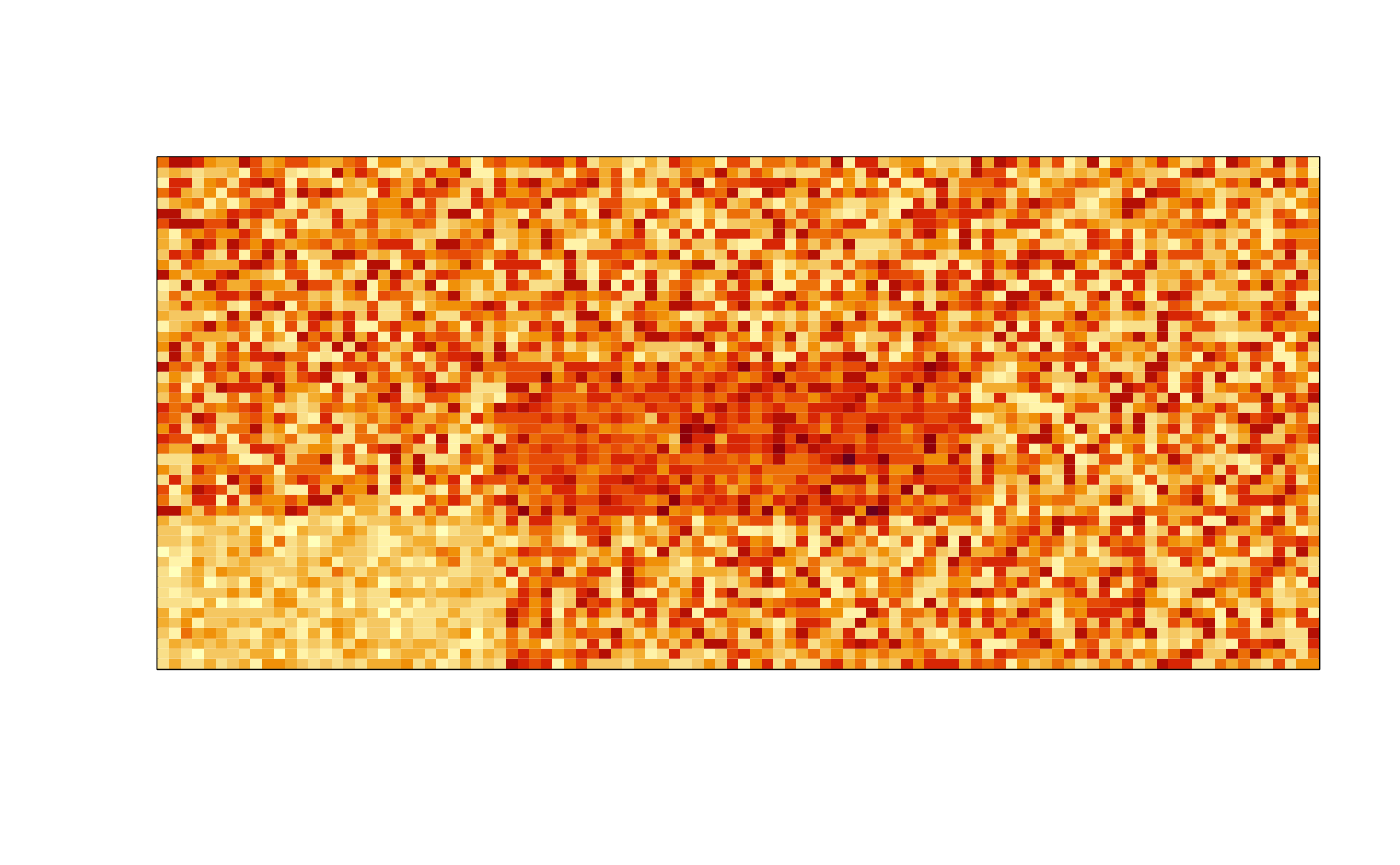
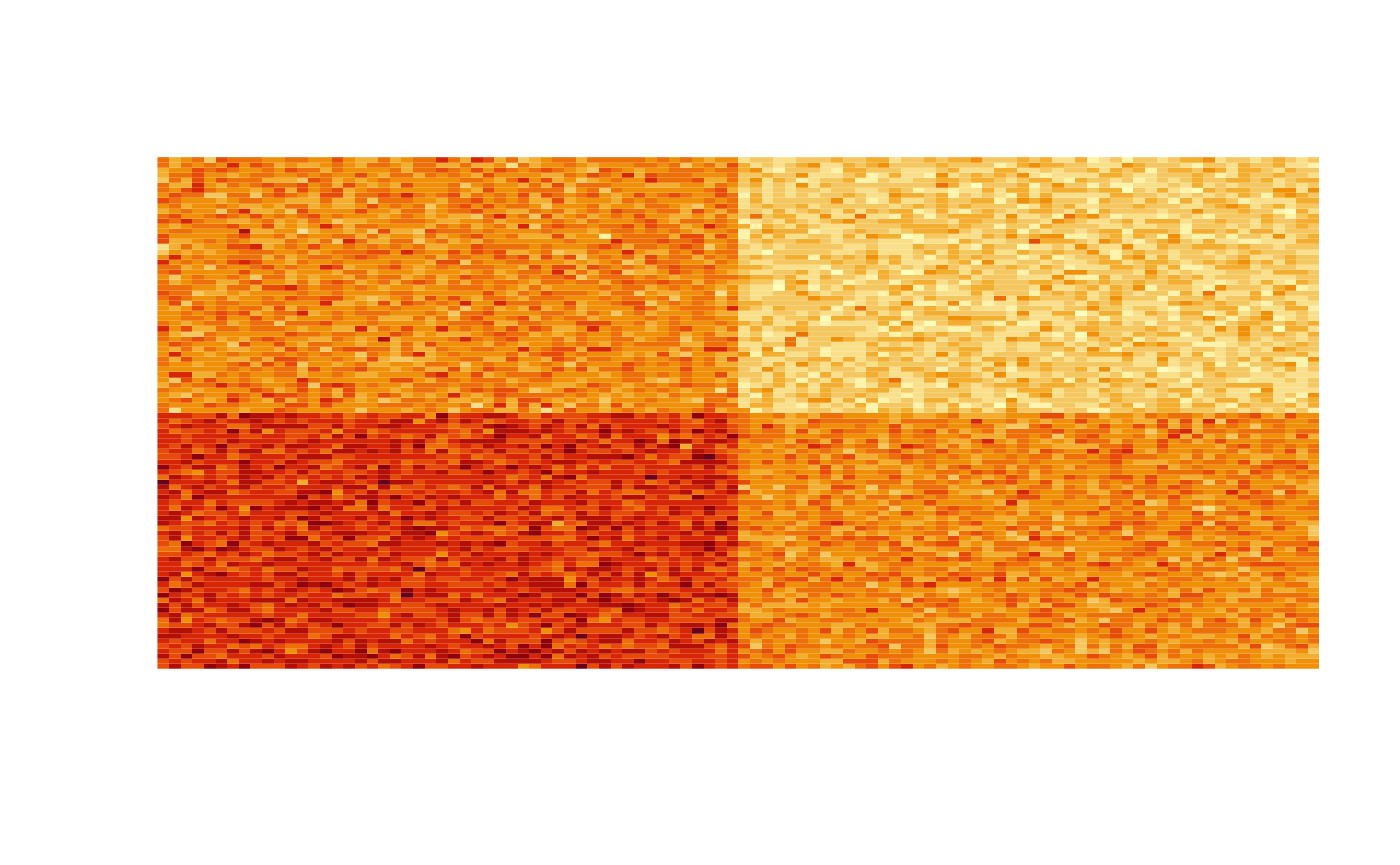
Built site for biaa: 0.0.0.900@f6a7e57

diff --git a/articles/biaa.html b/articles/biaa.html
@@ -99,47 +99,49 @@
 <div id="toy-example" class="section level2">
 <h2 class="hasAnchor">
 <a href="#toy-example" class="anchor"></a>Toy example</h2>
-<div id="parameters" class="section level3">
-<h3 class="hasAnchor">
-<a href="#parameters" class="anchor"></a>Parameters</h3>
-<div class="sourceCode" id="cb1"><html><body><pre class="r"><span class="fu"><a href="https://rdrr.io/r/base/Random.html">set.seed</a></span>(<span class="fl">123</span>)
+<div class="sourceCode" id="cb1"><html><body><pre class="r"><span class="fu"><a href="https://rdrr.io/r/base/Random.html">set.seed</a></span>(<span class="fl">2020</span>)
 
-<span class="no">m</span> <span class="kw">=</span> <span class="fl">50</span>
-<span class="no">n</span> <span class="kw">=</span> <span class="fl">100</span>
-<span class="no">k</span> <span class="kw">=</span> <span class="fl">1</span>:<span class="fl">5</span>
-<span class="no">c</span> <span class="kw">=</span> <span class="fl">1</span>:<span class="fl">4</span></pre></body></html></div>
+<span class="no">n</span> <span class="kw">&lt;-</span> <span class="fl">100</span>
+<span class="no">m</span> <span class="kw">&lt;-</span> <span class="fl">100</span>
+
+<span class="no">rotate</span> <span class="kw">&lt;-</span> <span class="kw">function</span>(<span class="no">x</span>) <span class="fu"><a href="https://rdrr.io/r/base/t.html">t</a></span>(<span class="fu"><a href="https://rdrr.io/r/base/apply.html">apply</a></span>(<span class="no">x</span>, <span class="fl">2</span>, <span class="no">rev</span>))</pre></body></html></div>
 </div>
-<div id="data" class="section level3">
-<h3 class="hasAnchor">
-<a href="#data" class="anchor"></a>Data</h3>
-<div class="sourceCode" id="cb2"><html><body><pre class="r"><span class="no">ax</span> <span class="kw">=</span> <span class="fl">1</span>:<span class="fl">30</span>; <span class="no">ay</span> <span class="kw">=</span> <span class="fl">1</span>:<span class="fl">15</span>
-<span class="no">bx</span> <span class="kw">=</span> <span class="fl">31</span>:<span class="fl">70</span>; <span class="no">by</span> <span class="kw">=</span> <span class="fl">16</span>:<span class="fl">30</span>
+<div id="toy-data" class="section level2">
+<h2 class="hasAnchor">
+<a href="#toy-data" class="anchor"></a>Toy data</h2>
+<div class="sourceCode" id="cb2"><html><body><pre class="r"><span class="no">ax</span> <span class="kw">&lt;-</span> <span class="fl">1</span>:(<span class="no">n</span>/<span class="fl">2</span>); <span class="no">ay</span> <span class="kw">&lt;-</span> (<span class="no">m</span>/<span class="fl">2</span>+<span class="fl">1</span>):<span class="no">m</span>;
+<span class="no">bx</span> <span class="kw">&lt;-</span> (<span class="no">n</span>/<span class="fl">2</span>+<span class="fl">1</span>):<span class="no">n</span>; <span class="no">by</span> <span class="kw">&lt;-</span> <span class="fl">1</span>:(<span class="no">m</span>/<span class="fl">2</span>);
 
-<span class="no">data</span> <span class="kw">=</span> <span class="fu"><a href="https://rdrr.io/r/base/matrix.html">matrix</a></span>(<span class="fu"><a href="https://rdrr.io/r/stats/Uniform.html">runif</a></span>(<span class="no">n</span> * <span class="no">m</span>, -<span class="fl">1</span>, <span class="fl">1</span>), <span class="kw">nrow</span> <span class="kw">=</span> <span class="no">n</span>, <span class="kw">ncol</span> <span class="kw">=</span> <span class="no">m</span>)
-<span class="no">data</span>[<span class="no">ax</span>, <span class="no">ay</span>] <span class="kw">=</span> <span class="fu"><a href="https://rdrr.io/r/stats/Normal.html">rnorm</a></span>(<span class="fu"><a href="https://rdrr.io/r/base/length.html">length</a></span>(<span class="no">ax</span>) * <span class="fu"><a href="https://rdrr.io/r/base/length.html">length</a></span>(<span class="no">ay</span>), <span class="kw">mean</span> <span class="kw">=</span> -<span class="fl">0.5</span>, <span class="kw">sd</span> <span class="kw">=</span> <span class="fl">0.3</span>)
-<span class="no">data</span>[<span class="no">bx</span>, <span class="no">by</span>] <span class="kw">=</span> <span class="fu"><a href="https://rdrr.io/r/stats/Normal.html">rnorm</a></span>(<span class="fu"><a href="https://rdrr.io/r/base/length.html">length</a></span>(<span class="no">bx</span>) * <span class="fu"><a href="https://rdrr.io/r/base/length.html">length</a></span>(<span class="no">by</span>), <span class="kw">mean</span> <span class="kw">=</span> <span class="fl">0.5</span>, <span class="kw">sd</span> <span class="kw">=</span> <span class="fl">0.3</span>)
+<span class="no">data</span> <span class="kw">&lt;-</span> <span class="fu"><a href="https://rdrr.io/r/base/array.html">array</a></span>(<span class="fl">0.5</span>, <span class="kw">dim</span> <span class="kw">=</span> <span class="fu"><a href="https://rdrr.io/r/base/c.html">c</a></span>(<span class="no">n</span>, <span class="no">m</span>))
+<span class="no">data</span>[<span class="no">ax</span>, <span class="no">ay</span>] <span class="kw">=</span> <span class="fl">0</span>
+<span class="no">data</span>[<span class="no">bx</span>, <span class="no">by</span>] <span class="kw">=</span> <span class="fl">1</span>
 
-<span class="fu"><a href="https://rdrr.io/r/graphics/image.html">image</a></span>(<span class="no">data</span>, <span class="kw">xaxt</span><span class="kw">=</span> <span class="st">"n"</span>, <span class="kw">yaxt</span><span class="kw">=</span> <span class="st">"n"</span>)</pre></body></html></div>
+<span class="no">data</span> <span class="kw">&lt;-</span> <span class="no">data</span> + <span class="fu"><a href="https://rdrr.io/r/base/array.html">array</a></span>(<span class="fu"><a href="https://rdrr.io/r/stats/Normal.html">rnorm</a></span>(<span class="no">n</span> * <span class="no">m</span>, <span class="fl">0</span>, <span class="fl">0.2</span>), <span class="kw">dim</span> <span class="kw">=</span> <span class="fu"><a href="https://rdrr.io/r/base/c.html">c</a></span>(<span class="no">n</span>, <span class="no">m</span>))
+
+<span class="fu"><a href="https://rdrr.io/r/graphics/image.html">image</a></span>(<span class="fu">rotate</span>(<span class="no">data</span>), <span class="kw">axes</span><span class="kw">=</span><span class="fl">FALSE</span>)</pre></body></html></div>
 <p><img src="biaa_files/figure-html/unnamed-chunk-3-1.png" width="700" style="display: block; margin: auto;"></p>
-<div id="shuffled-data" class="section level4">
-<h4 class="hasAnchor">
-<a href="#shuffled-data" class="anchor"></a>Shuffled data</h4>
-<div class="sourceCode" id="cb3"><html><body><pre class="r"><span class="no">srows</span> <span class="kw">=</span> <span class="fu"><a href="https://rdrr.io/r/base/sample.html">sample</a></span>(<span class="no">n</span>, <span class="no">n</span>)
-<span class="no">scols</span> <span class="kw">=</span> <span class="fu"><a href="https://rdrr.io/r/base/sample.html">sample</a></span>(<span class="no">m</span>, <span class="no">m</span>)
-<span class="no">sdata</span> <span class="kw">=</span> <span class="no">data</span>[<span class="no">srows</span>, <span class="no">scols</span>]
+<div id="shuffling-data" class="section level3">
+<h3 class="hasAnchor">
+<a href="#shuffling-data" class="anchor"></a>Shuffling data</h3>
+<div class="sourceCode" id="cb3"><html><body><pre class="r"><span class="no">shuf_rows</span> <span class="kw">&lt;-</span> <span class="fu"><a href="https://rdrr.io/r/base/sample.html">sample</a></span>(<span class="no">n</span>, <span class="no">n</span>)
+<span class="no">shuf_cols</span> <span class="kw">&lt;-</span> <span class="fu"><a href="https://rdrr.io/r/base/sample.html">sample</a></span>(<span class="no">m</span>, <span class="no">m</span>)
+<span class="no">shuf_data</span> <span class="kw">&lt;-</span> <span class="no">data</span>[<span class="no">shuf_rows</span>, <span class="no">shuf_cols</span>]
 
-<span class="fu"><a href="https://rdrr.io/r/graphics/image.html">image</a></span>(<span class="no">sdata</span>, <span class="kw">xaxt</span><span class="kw">=</span> <span class="st">"n"</span>, <span class="kw">yaxt</span><span class="kw">=</span> <span class="st">"n"</span>)</pre></body></html></div>
+<span class="fu"><a href="https://rdrr.io/r/graphics/image.html">image</a></span>(<span class="fu">rotate</span>(<span class="no">shuf_data</span>), <span class="kw">axes</span><span class="kw">=</span><span class="fl">FALSE</span>)</pre></body></html></div>
 <p><img src="biaa_files/figure-html/unnamed-chunk-4-1.png" width="700" style="display: block; margin: auto;"></p>
 </div>
 </div>
-<div id="archetypes" class="section level3">
-<h3 class="hasAnchor">
-<a href="#archetypes" class="anchor"></a>Archetypes</h3>
-<div class="sourceCode" id="cb4"><html><body><pre class="r"><span class="no">arch</span> <span class="kw">=</span> <span class="kw pkg">biaa</span><span class="kw ns">::</span><span class="fu"><a href="../reference/biaa.html">biaa</a></span>(<span class="no">sdata</span>, <span class="kw">k</span> <span class="kw">=</span> <span class="no">k</span>, <span class="kw">c</span> <span class="kw">=</span> <span class="no">c</span>, <span class="kw">nrep</span> <span class="kw">=</span> <span class="fl">3</span>, <span class="kw">maxiter</span> <span class="kw">=</span> <span class="fl">1000</span>)</pre></body></html></div>
+<div id="bi-archetypal-analysis" class="section level2">
+<h2 class="hasAnchor">
+<a href="#bi-archetypal-analysis" class="anchor"></a>Bi-Archetypal analysis</h2>
+<div class="sourceCode" id="cb4"><html><body><pre class="r"><span class="no">k</span> <span class="kw">&lt;-</span> <span class="fl">1</span>:<span class="fl">4</span>
+<span class="no">c</span> <span class="kw">&lt;-</span> <span class="fl">1</span>:<span class="fl">4</span>
+
+<span class="no">arch</span> <span class="kw">&lt;-</span> <span class="kw pkg">biaa</span><span class="kw ns">::</span><span class="fu"><a href="../reference/biaa.html">biaa</a></span>(<span class="no">shuf_data</span>, <span class="no">k</span>, <span class="no">c</span>, <span class="kw">nrep</span> <span class="kw">=</span> <span class="fl">5</span>, <span class="kw">maxiter</span> <span class="kw">=</span> <span class="fl">5000</span>)</pre></body></html></div>
 <pre><code>Loading required package: nnls</code></pre>
-<div id="plot-rss" class="section level4">
-<h4 class="hasAnchor">
-<a href="#plot-rss" class="anchor"></a>Plot RSS</h4>
+<div id="ploting-the-rss" class="section level3">
+<h3 class="hasAnchor">
+<a href="#ploting-the-rss" class="anchor"></a>Ploting the RSS</h3>
 <div class="sourceCode" id="cb6"><html><body><pre class="r"><span class="kw pkg">biaa</span><span class="kw ns">::</span><span class="fu"><a href="../reference/rssplot.html">rssplot</a></span>(<span class="no">arch</span>)</pre></body></html></div>
 <pre><code>Loading required package: plot3D</code></pre>
 <p><img src="biaa_files/figure-html/unnamed-chunk-6-1.png" width="700" style="display: block; margin: auto;"></p>
@@ -148,34 +150,32 @@
 <span class="kw pkg">biaa</span><span class="kw ns">:::</span><span class="fu"><a href="../reference/rssplot.html">rssplot</a></span>(<span class="no">arch</span>, <span class="kw">phi</span> <span class="kw">=</span> <span class="fl">0</span>, <span class="kw">theta</span> <span class="kw">=</span> <span class="fl">90</span>)</pre></body></html></div>
 <p><img src="biaa_files/figure-html/unnamed-chunk-7-1.png" width="700" style="display: block; margin: auto;"></p>
 </div>
-<div id="select-desired-model" class="section level4">
-<h4 class="hasAnchor">
-<a href="#select-desired-model" class="anchor"></a>Select desired model</h4>
-<div class="sourceCode" id="cb9"><html><body><pre class="r"><span class="no">barch</span> <span class="kw">=</span> <span class="kw pkg">biaa</span><span class="kw ns">::</span><span class="fu"><a href="../reference/getmodel.html">getmodel</a></span>(<span class="no">arch</span>, <span class="kw">k</span> <span class="kw">=</span> <span class="fl">3</span>, <span class="kw">c</span> <span class="kw">=</span> <span class="fl">3</span>)</pre></body></html></div>
-</div>
-</div>
-<div id="results" class="section level3">
+<div id="geting-the-best-model" class="section level3">
 <h3 class="hasAnchor">
-<a href="#results" class="anchor"></a>Results</h3>
-<div class="sourceCode" id="cb10"><html><body><pre class="r"><span class="no">barch</span>$<span class="no">rss</span></pre></body></html></div>
-<pre><code>[1] 13.03165</code></pre>
-<div class="sourceCode" id="cb12"><html><body><pre class="r"><span class="no">barch</span>$<span class="no">archetypes</span></pre></body></html></div>
-<pre><code>           [,1]        [,2]       [,3]
-[1,]  0.9974560 -0.53877150 -0.6773080
-[2,] -0.1611087  1.20067328 -0.7601152
-[3,] -0.9271722 -0.09963161  0.8693870</code></pre>
-<div id="clustering-data-using-the-archetypes" class="section level4">
-<h4 class="hasAnchor">
-<a href="#clustering-data-using-the-archetypes" class="anchor"></a>Clustering data using the archetypes</h4>
-<div class="sourceCode" id="cb14"><html><body><pre class="r"><span class="no">maxalphas</span> <span class="kw">=</span> <span class="fu"><a href="https://rdrr.io/r/base/apply.html">apply</a></span>(<span class="no">barch</span>$<span class="no">alphas</span>, <span class="fl">1</span>, <span class="no">which.max</span>)
-<span class="no">orows</span> <span class="kw">=</span> <span class="fu"><a href="https://rdrr.io/r/base/order.html">order</a></span>(<span class="no">maxalphas</span>)
-
-<span class="no">maxgammas</span> <span class="kw">=</span> <span class="fu"><a href="https://rdrr.io/r/base/apply.html">apply</a></span>(<span class="no">barch</span>$<span class="no">gammas</span>, <span class="fl">2</span>, <span class="no">which.max</span>)
-<span class="no">ocols</span> <span class="kw">=</span> <span class="fu"><a href="https://rdrr.io/r/base/order.html">order</a></span>(<span class="no">maxgammas</span>)
-
-<span class="fu"><a href="https://rdrr.io/r/graphics/image.html">image</a></span>(<span class="no">sdata</span>[<span class="no">orows</span>, <span class="no">ocols</span>], <span class="kw">xaxt</span><span class="kw">=</span> <span class="st">"n"</span>, <span class="kw">yaxt</span><span class="kw">=</span> <span class="st">"n"</span>)</pre></body></html></div>
-<p><img src="biaa_files/figure-html/unnamed-chunk-10-1.png" width="700" style="display: block; margin: auto;"></p>
+<a href="#geting-the-best-model" class="anchor"></a>Geting the best model</h3>
+<div class="sourceCode" id="cb9"><html><body><pre class="r"><span class="no">barch</span> <span class="kw">&lt;-</span> <span class="kw pkg">biaa</span><span class="kw ns">::</span><span class="fu"><a href="../reference/getmodel.html">getmodel</a></span>(<span class="no">arch</span>, <span class="kw">k</span> <span class="kw">=</span> <span class="fl">2</span>, <span class="kw">c</span> <span class="kw">=</span> <span class="fl">2</span>)</pre></body></html></div>
 </div>
+</div>
+<div id="results" class="section level2">
+<h2 class="hasAnchor">
+<a href="#results" class="anchor"></a>Results</h2>
+<div class="sourceCode" id="cb10"><html><body><pre class="r"><span class="no">barch</span>$<span class="no">rss</span></pre></body></html></div>
+<pre><code>[1] 3.904956</code></pre>
+<div class="sourceCode" id="cb12"><html><body><pre class="r"><span class="no">barch</span>$<span class="no">archetypes</span></pre></body></html></div>
+<pre><code>         [,1]       [,2]
+[1,] 1.087640  0.4407000
+[2,] 0.233807 -0.3834161</code></pre>
+<div id="ordering-data-using-the-bi-archetypes" class="section level3">
+<h3 class="hasAnchor">
+<a href="#ordering-data-using-the-bi-archetypes" class="anchor"></a>Ordering data using the bi-archetypes</h3>
+<div class="sourceCode" id="cb14"><html><body><pre class="r"><span class="no">maxalphas</span> <span class="kw">&lt;-</span> <span class="fu"><a href="https://rdrr.io/r/base/apply.html">apply</a></span>(<span class="no">barch</span>$<span class="no">alphas</span>, <span class="fl">1</span>, <span class="no">which.max</span>)
+<span class="no">ord_rows</span> <span class="kw">&lt;-</span> <span class="fu"><a href="https://rdrr.io/r/base/order.html">order</a></span>(<span class="no">maxalphas</span>)
+
+<span class="no">maxgammas</span> <span class="kw">&lt;-</span> <span class="fu"><a href="https://rdrr.io/r/base/apply.html">apply</a></span>(<span class="no">barch</span>$<span class="no">gammas</span>, <span class="fl">2</span>, <span class="no">which.max</span>)
+<span class="no">ord_cols</span> <span class="kw">&lt;-</span> <span class="fu"><a href="https://rdrr.io/r/base/order.html">order</a></span>(<span class="no">maxgammas</span>)
+
+<span class="fu"><a href="https://rdrr.io/r/graphics/image.html">image</a></span>(<span class="fu">rotate</span>(<span class="no">shuf_data</span>[<span class="no">ord_rows</span>, <span class="no">ord_cols</span>]), <span class="kw">axes</span> <span class="kw">=</span> <span class="fl">FALSE</span>)</pre></body></html></div>
+<p><img src="biaa_files/figure-html/unnamed-chunk-10-1.png" width="700" style="display: block; margin: auto;"></p>
 </div>
 </div>
   </div>
